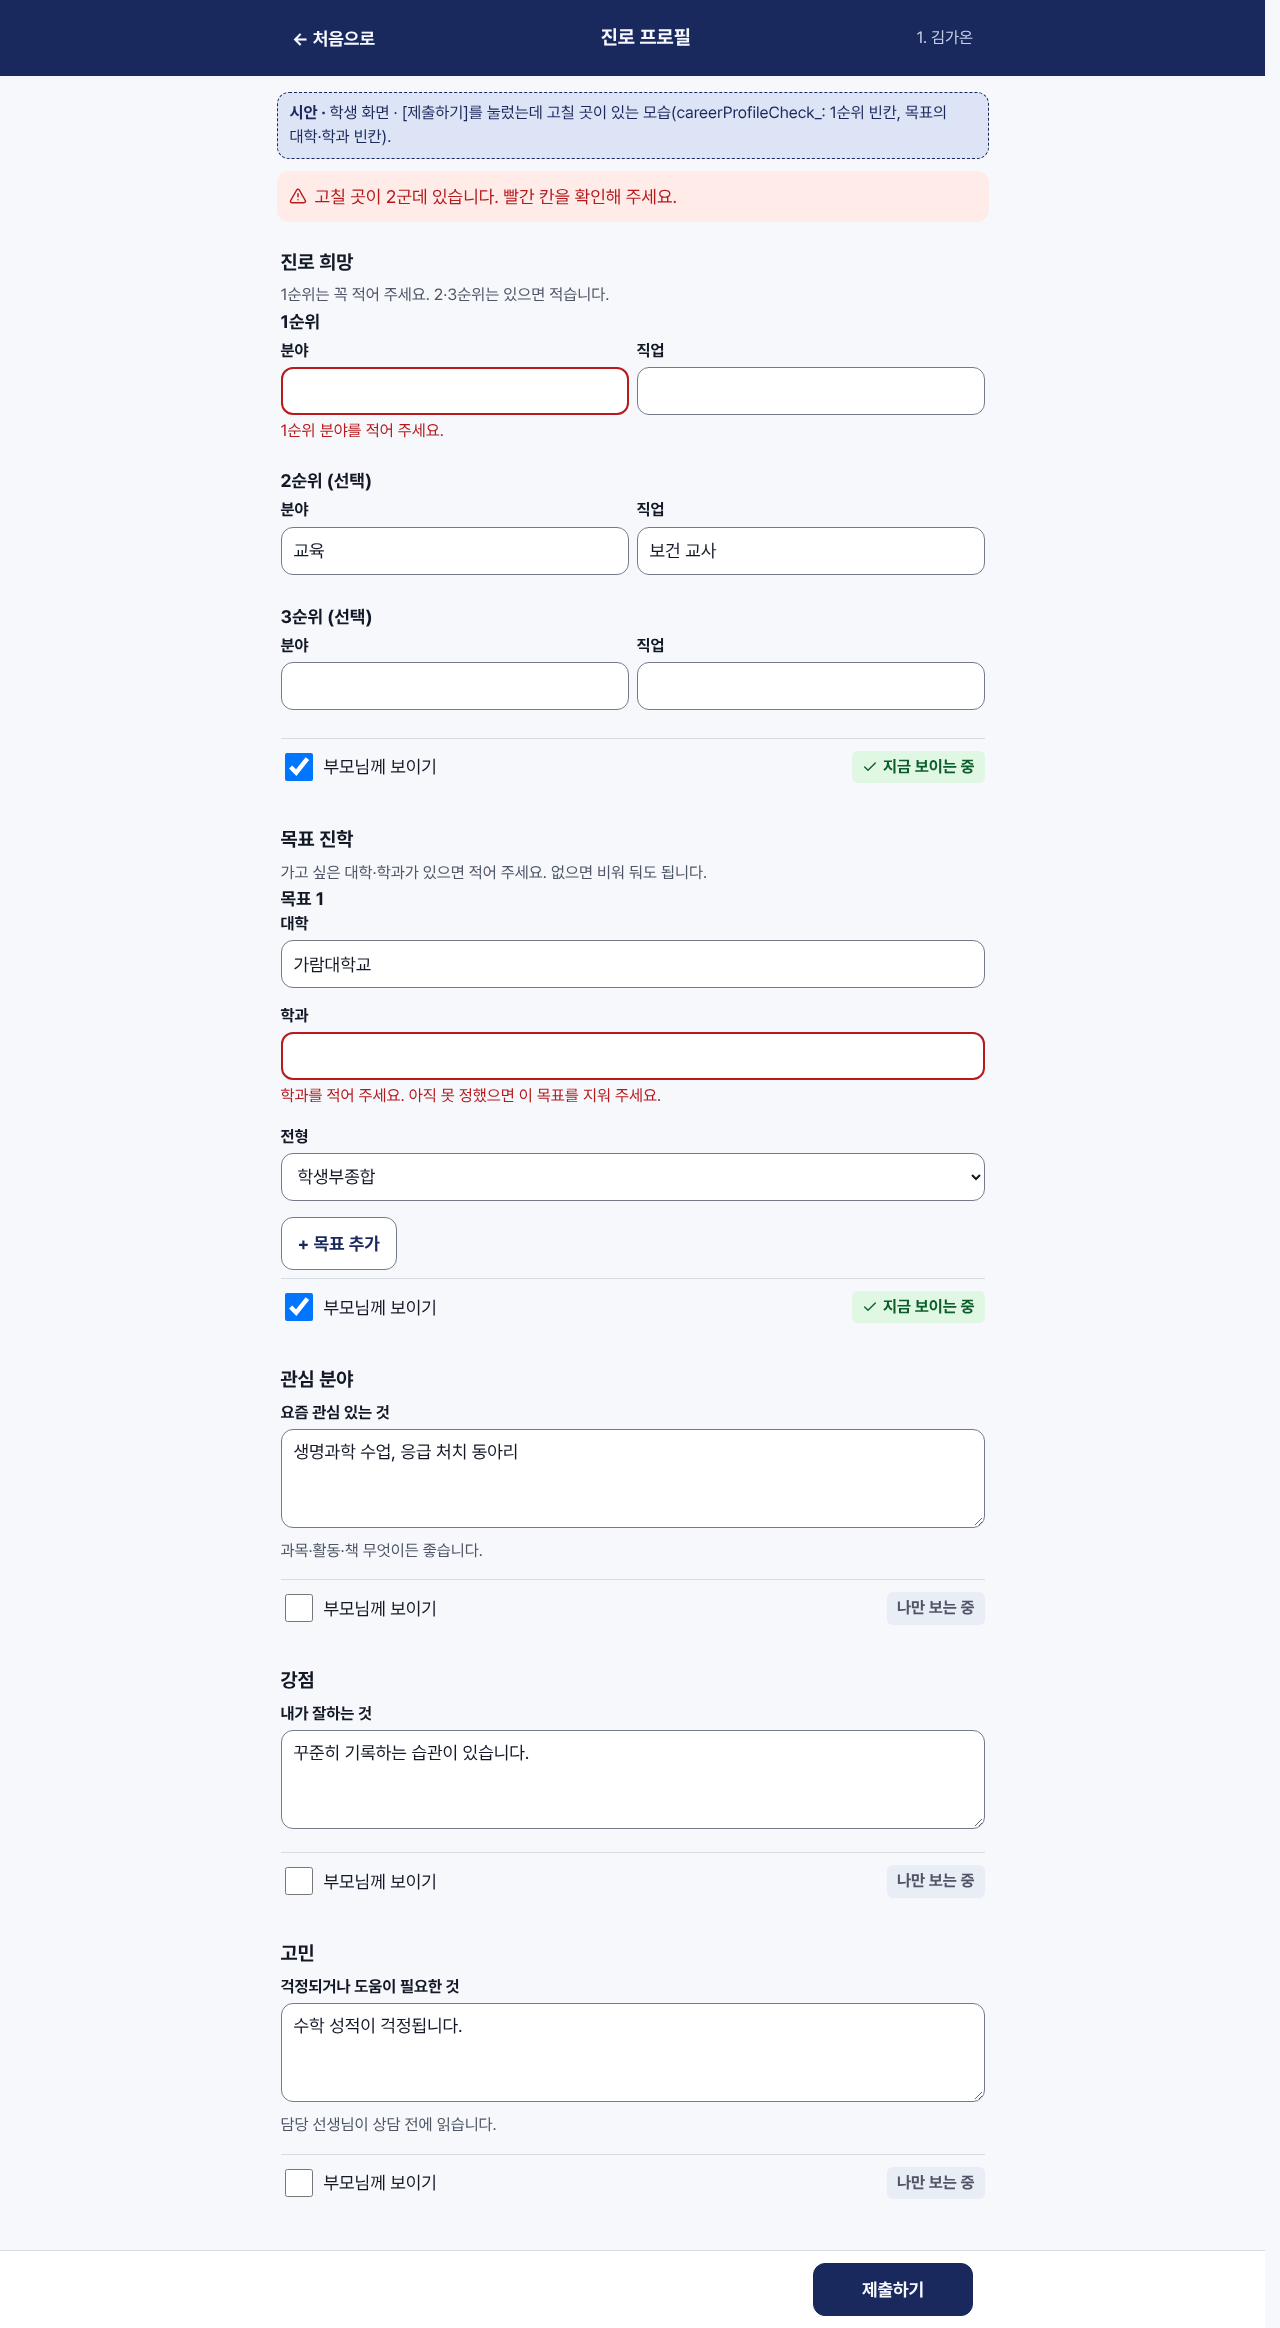
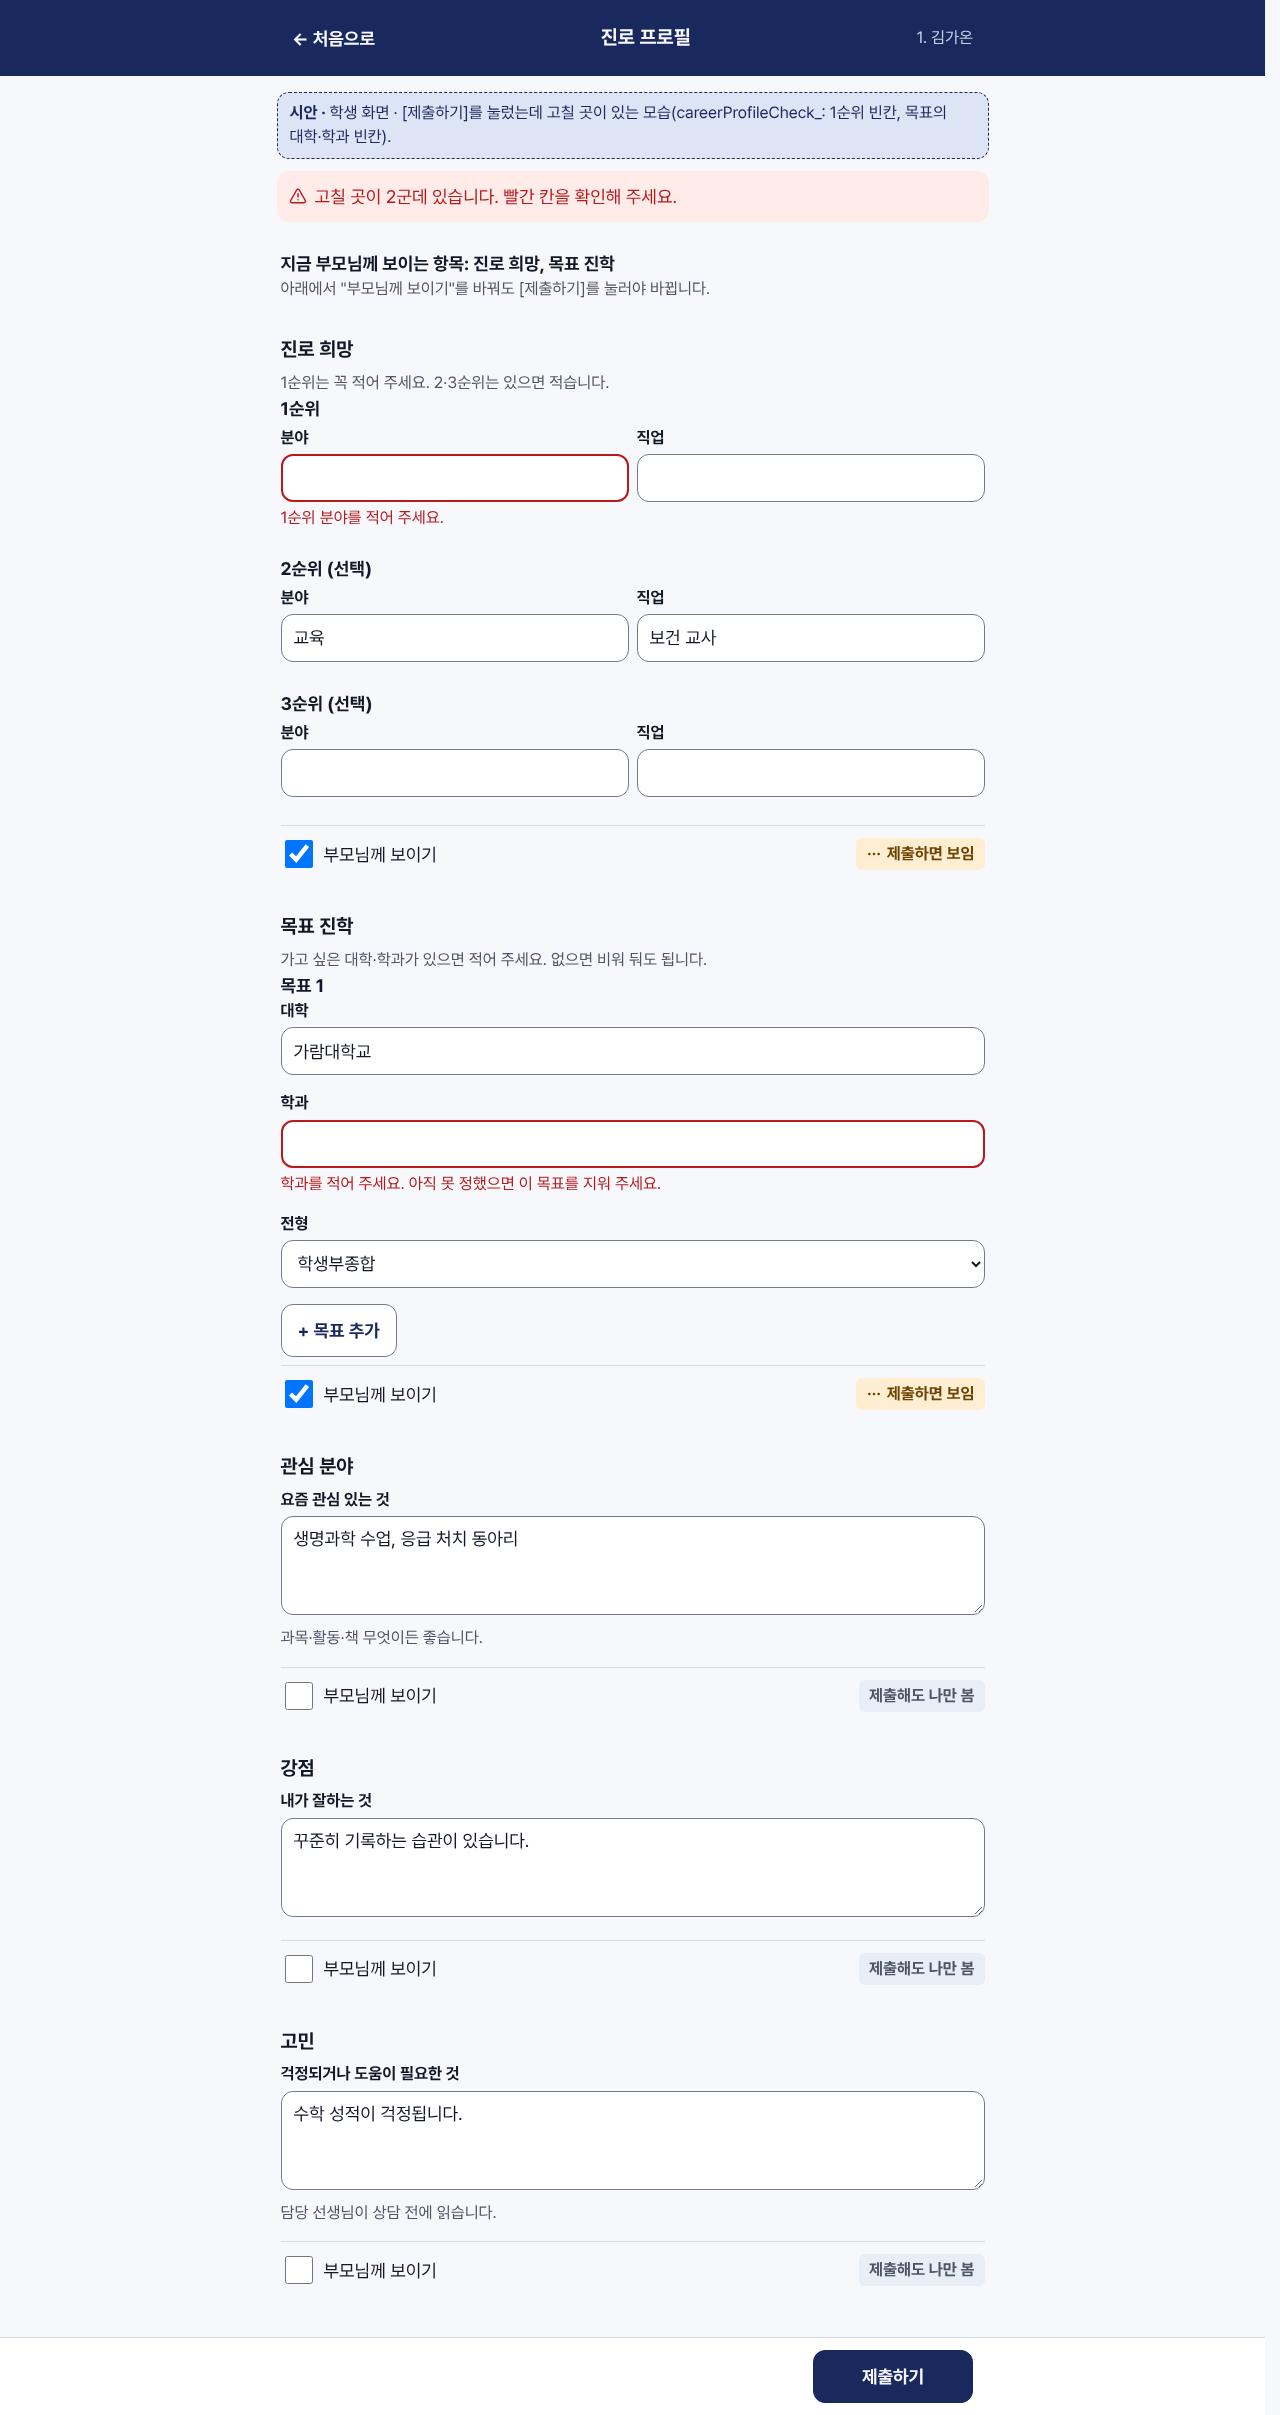
D26: 시안의 '보이기' 꼬리표를 사실대로 — 입력 화면은 "제출하면 보임", 학부모 화면에 버전 표시 없음 (#326)
Claude-Session: https://claude.ai/code/session_01By8YaWkfK9cbtnKxFetPty

diff --git a/docs/design/stage6/screens.md b/docs/design/stage6/screens.md
@@ -51,7 +51,8 @@
 | 강점 | 여러 줄 글 "내가 잘하는 것" | 선택 |
 | 고민 | 여러 줄 글 "걱정되거나 도움이 필요한 것". 도움말 "담당 선생님이 상담 전에 읽습니다." | 선택 |
 
-- **"부모님께 보이기" 줄:** 체크 칸(`.check`) + 지금 상태 꼬리표. 켜져 있으면 초록 "지금 보이는 중", 꺼져 있으면 회색 "나만 보는 중". **기본은 꺼짐.** 새로 낼 때는 지난 기록의 켜짐·꺼짐을 그대로 이어받아 보여 준다(결정 89).
+- **지금 상태 한 줄**(마감 카드 아래, 고쳐 낼 때만): "지금 부모님께 보이는 항목: 진로 희망, 목표 진학"(없으면 "지금 부모님께 보이는 항목이 없습니다.") + "아래에서 "부모님께 보이기"를 바꿔도 [제출하기]를 눌러야 바뀝니다."
+- **"부모님께 보이기" 줄(입력 화면):** 체크 칸(`.check`) + 꼬리표. 켜면 주의색 **"제출하면 보임"**, 끄면 회색 **"제출해도 나만 봄"**. 아직 내지 않았으므로 **"지금 보이는 중"이라고 하지 않는다**(D26 — 체크만 바꾸고 나가면 학부모 화면은 그대로이기 때문). **기본은 꺼짐.** 새로 낼 때는 지난 기록의 켜짐·꺼짐을 그대로 이어받아 보여 준다(결정 89). 입력 화면에서 끌 때는 확인 시트가 없다(제출 확인 시트가 항목을 다시 보여 준다).
 - **맨 아래 한 줄:** "부모님께는 가장 최근에 낸 기록에서 "보이기"를 켠 항목만 보입니다. 선생님 말씀(피드백)은 부모님께 보이지 않습니다."
 - **아래 바:** [제출하기].
 - **오류**(`s-career-error`): 맨 위 "고칠 곳이 n군데 있습니다. 빨간 칸을 확인해 주세요." + 칸 아래 "1순위 분야를 적어 주세요.", "학과를 적어 주세요. 아직 못 정했으면 이 목표를 지워 주세요.", 순위가 겹치면 "같은 내용을 두 순위에 적었습니다. 하나를 고쳐 주세요.", 글이 길면 "글이 너무 깁니다. n자 안으로 줄여 주세요."
@@ -102,7 +103,7 @@
 
 - **위 안내:** "부모님께는 상담한 날짜와 선생님 이름만 보입니다. 합의 사항은 내가 "보이기"를 켠 것만 보입니다."
 - **상담 한 건에 카드 하나:** 날짜, 선생님 이름, **합의 사항·다음 할 일** 상자. 상담 유형과 내용은 없다(서버가 보내지 않는다, 결정 94).
-- 합의 사항이 있으면 카드 아래 체크 칸 **"이 합의 사항을 부모님께 보이기"**(건마다, 기본 꺼짐, 결정 90) + 상태 꼬리표. 끌 때는 1절과 같은 확인 시트(맨 위 줄만 "4월 5일(월) 상담의 합의 사항").
+- 합의 사항이 있으면 카드 아래 체크 칸 **"이 합의 사항을 부모님께 보이기"**(건마다, 기본 꺼짐, 결정 90) + 상태 꼬리표. 체크하는 순간 바로 저장된다. 끌 때는 1절과 같은 확인 시트(맨 위 줄만 "4월 5일(월) 상담의 합의 사항").
 - 합의 사항이 없는 상담: "적힌 합의 사항이 없습니다." 체크 칸 없음.
 - **빈 상태:** "아직 상담 기록이 없습니다." + [상담 신청하기].
 
@@ -115,7 +116,7 @@
 - **기록 한 건에 카드 하나:** 출처 꼬리표 **"AI 제안 · ChatGPT / 연결 예시 / 기본 추천"**(늘 붙인다), 관심 표시가 있으면 "관심 표시", 주제 제목(굵게), 중심 질문, "과목 · 성취기준 코드 2개 · 기록한 날".
 - **진행:** 접힌 모습은 상태 꼬리표(관심 = 회색, 진행 중 = 주의색, 완료 = 초록) + [진행 적기]. 누르면 그 카드 안에서 펼쳐진다: 진행 상태(3개 중 하나: 관심·진행 중·완료), 결과물 링크 (선택)(도움말 "http:// 또는 https:// 로 시작하는 주소만 됩니다."), 메모 (선택), [저장]. 알림 "저장했습니다."
 - **선생님 말씀:** 그 기록에 달린 피드백(있을 때만).
-- **"부모님께 보이기"** 줄: 기록마다, 기본 꺼짐. 끌 때는 1절과 같은 확인 시트.
+- **"부모님께 보이기"** 줄: 기록마다, 기본 꺼짐. 끌 때는 1절과 같은 확인 시트. **체크하는 순간 바로 저장된다**(꼬리표 "지금 보이는 중"이 사실이다). 펼친 진행 칸의 [저장]과는 따로 움직이므로, 진행 칸을 저장하지 않아도 보이기는 이미 바뀌어 있다.
 - **아래 바:** [기록 파일 올리기].
 - **빈 상태:** "아직 올린 탐구 기록이 없습니다. 탐구발견 앱에서 [기록 파일 받기]로 받은 파일을 올려 주세요."
 - 오류: "주소는 http:// 또는 https:// 로 시작해야 합니다.", "메모가 너무 깁니다. n자 안으로 줄여 주세요."
@@ -148,7 +149,7 @@
 
 - 자녀가 둘 이상이면 위에 자녀 칩.
 - **위 안내:** "자녀가 학부모님께 보여 주기로 한 내용입니다. 자녀가 고쳐 내면 가장 최근 내용으로 바뀝니다."
-- **진로:** 자녀가 켠 항목만, 가장 최근 기록만. **켜지 않은 항목은 제목조차 나오지 않는다.** 아래 "4월 12일(월)에 낸 내용". 지난 기록 넘기기 없음. 선생님 말씀(피드백) 없음.
+- **진로:** 자녀가 켠 항목만, 가장 최근 기록만. **켜지 않은 항목은 제목조차 나오지 않는다.** 아래 "4월 12일(월)에 낸 내용". **"n번째 기록" 같은 버전 표시는 학부모 화면 어디에도 없다**(서버가 버전 번호를 보내지 않는다. 낸 날만). 지난 기록 넘기기 없음. 선생님 말씀(피드백) 없음.
 - **탐구:** 자녀가 켠 기록만. "AI 제안" 꼬리표 + 진행 상태, 제목, 중심 질문, "탐구 주제는 AI가 제안한 것으로, 자녀가 골라 진행하고 있습니다." 메모·링크는 자녀가 그 기록을 켰을 때 함께 나온다.
 - **상담:** 한 줄에 "날짜 · ○○ 선생님". 자녀가 켠 합의 사항만 아래 상자로. 켜지 않은 상담은 날짜·선생님 줄뿐이고 **"비공개" 같은 표시가 없다.** 아래 "상담한 날짜와 선생님을 알려 드립니다. 상담 내용이 궁금하시면 담당 선생님께 연락해 주세요."
 - **빈 상태**(`p-empty`, 결정 92): 진로와 탐구 "지금은 보여 드릴 진로·탐구 기록이 없습니다." + "자녀가 학부모님께 보여 주기로 한 기록이 생기면 여기에 나옵니다." / 상담 "이번 학기에 상담한 기록이 없습니다."
@@ -272,7 +273,7 @@
 ![내 이수 계획](photos/s-plan-360.png) ![고르기](photos/s-plan-edit-360.png) ![많이 고름](photos/s-plan-error-360.png)
 
 - **위 안내:** ""확정"은 담당 선생님이 확인했다는 표시입니다. 확정된 과목을 바꾸면 다시 "계획"이 되고 선생님이 다시 확인합니다."
-- **학기마다 카드 하나.** 과목 한 줄: 과목 이름 + 상태 꼬리표(계획 = 회색, 확정 = 초록) + 선택군 이름 + **"부모님께 보이기"** 줄(과목마다, 기본 꺼짐. 끌 때는 1절과 같은 확인 시트).
+- **학기마다 카드 하나.** 과목 한 줄: 과목 이름 + 상태 꼬리표(계획 = 회색, 확정 = 초록) + 선택군 이름 + **"부모님께 보이기"** 줄(과목마다, 기본 꺼짐. 체크하는 순간 바로 저장된다 — 고르기 화면(`s-plan-edit`)에는 보이기 줄을 두지 않는다. 끌 때는 1절과 같은 확인 시트).
 - 고른 과목이 없는 학기: "아직 고른 과목이 없습니다." + [과목 고르기].
 - **선생님 말씀** 카드(있을 때만) + "선생님 말씀은 나와 선생님만 봅니다. 부모님께는 보이지 않습니다."
 - **희망 학과가 권하는 과목 (참고)** 카드: 가장 최근 진로 프로필의 목표 학과마다 대학·학과, 핵심 권장·권장 과목, "출처: … · 기준 2028학년도", "참고 자료입니다. 이 과목을 들어야만 지원할 수 있다는 뜻이 아닙니다. 궁금하면 담당 선생님과 이야기해 주세요.", [출처 열기]. 목표 진학이 없으면 "진로 프로필에 목표 학과를 적으면 그 학과가 권하는 과목이 여기에 나옵니다.", 자료에 없는 학과면 "이 학과의 권장 과목 자료가 없습니다."
@@ -352,3 +353,17 @@
 3. **홈의 "이수 계획 확인 n명"** 줄도 제안이다(분담표에 없음).
 4. 권장 과목 꼬리표("핵심 권장"·"권장")는 과목 이름이 표준 이름과 같을 때만 붙는다 — 그래서 올릴 때 이름 경고를 둔다.
 5. 출결 결과의 "미인정" 꼬리표는 D24에서 주의색으로 바꿨다(`src/` 변경은 그 한 줄뿐, 이번에는 없음).
+
+## 13. "부모님께 보이기" 꼬리표의 원칙 (D26)
+
+C50 구현 검토에서 찾은 시안의 잘못을 고쳤다. **꼬리표는 지금 사실인 것만 말한다.**
+
+| 어디 | 체크하면 | 꼬리표 |
+| --- | --- | --- |
+| 진로 프로필 **보기**(`s-career-view`), 상담 기록(`s-notes`), 탐구 기록(`s-inquiry-list`), 이수 계획 **보기**(`s-plan`) | 바로 저장된다 | "지금 보이는 중" / "나만 보는 중" |
+| 진로 프로필 **입력**(`s-career-form`) | [제출하기]를 눌러야 바뀐다 | "제출하면 보임" / "제출해도 나만 봄" + 맨 위 "지금 부모님께 보이는 항목: …" |
+| 이수 계획 **고르기**(`s-plan-edit`), 탐구 **올리기**(`s-inquiry-pick`·`-preview`) | 보이기 줄이 없다 | — |
+
+- `UI.shareCheck`는 꼬리표 문구를 바꿀 수 있어야 한다(입력 화면용 두 문구).
+- 학부모 화면에는 "n번째 기록" 같은 버전 표시가 없다(낸 날만). `p-career`·`p-plan`·`p-empty` 시안과 설명을 다시 확인했고 버전 표시는 없었다.
+- 탐구 기록 카드는 [진행 적기]를 펼치면 [저장]이 생기는데, 보이기 체크는 그 [저장]과 따로 바로 저장된다. 헷갈리면 보이기 줄을 펼친 칸 밖(카드 맨 아래)에 두는 지금 자리를 지킨다.
